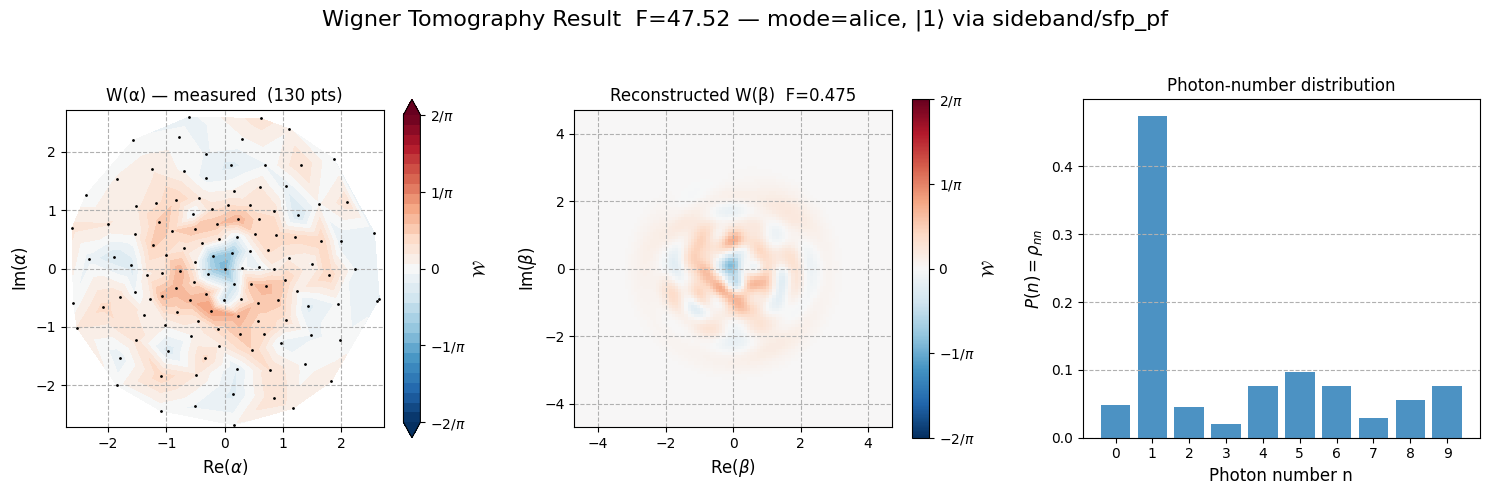
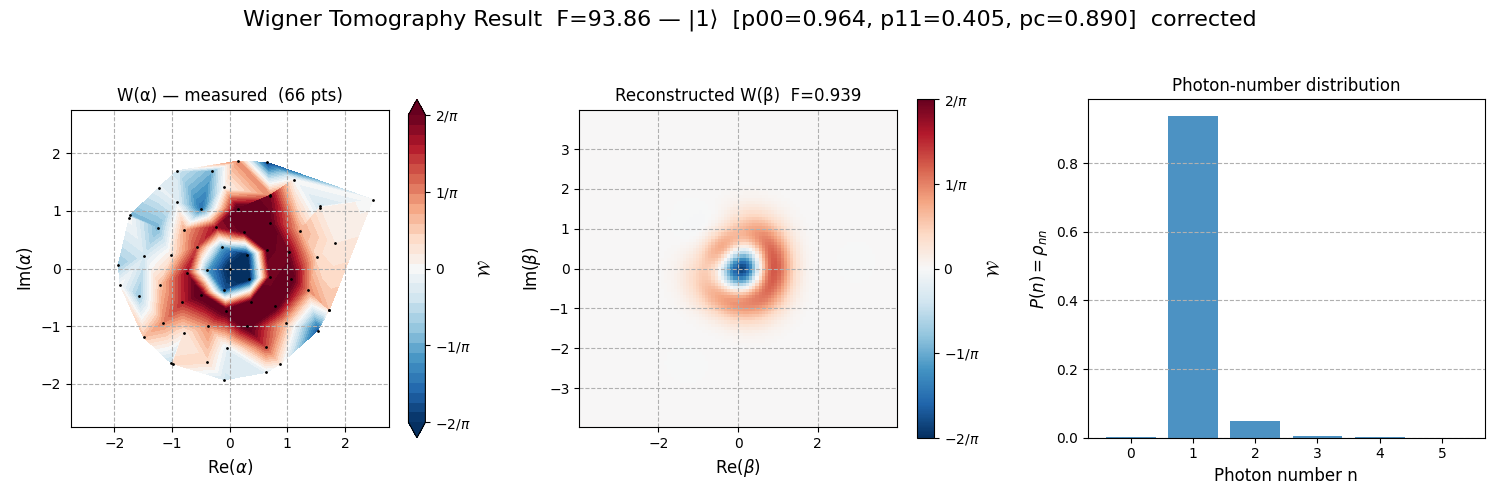
Docs: correct README attribution and update wigner figure
1Q_calibrations/README.md: fix nodes credited to NQI-SQMS — remove
nodes that came from other branches (02g-02j, 03d-03e, 04c, 05c,
06c, 09c, 10a, 10c, 22b, 08f, flux distortion nodes 17b-18d, filter
plot 99, adaptive graph suite 994-999). Clarify that the adaptive
concept was introduced through modifications to existing nodes
(error codes, temp_calibration blacklisting) rather than as
standalone orchestration graphs.

cavity_calibrations/README.md: replace wigner figure with
parity-corrected result (F=93.86%, p11=0.405, pc=0.890); remove
noisy Fock |1> T2 Ramsey figure.

.img/: replace wigner_tomography.png (F=47.52 → F=93.86 corrected),
remove cavity_fock1_T2.png.

diff --git a/qualibration_graphs/superconducting/calibrations/1Q_calibrations/README.md b/qualibration_graphs/superconducting/calibrations/1Q_calibrations/README.md
@@ -1,12 +1,11 @@
 # 1Q Calibrations
 
-This folder contains the standard single-qubit calibration library for superconducting transmon qubits on the QUA platform, originally developed by Quantum Machines (QM) and extended by NQI-SQMS at Northwestern/Fermilab to support:
+This folder contains the standard single-qubit calibration library for superconducting transmon qubits on the QUA platform, originally developed by Quantum Machines (QM). NQI-SQMS extended and corrected these nodes to support:
 
-- SRF transmon-cavity systems (dispersive regime, Wigner tomography)
-- Adaptive calibration graphs with error-code-driven recovery
-- Extended readout optimization (depletion, length, 2D frequency-amplitude)
-- EF (second excited state) calibration nodes
-- Flux-vs-time coherence characterization
+- SRF transmon-cavity systems (dispersive coupling, parity measurement, Wigner tomography)
+- Adaptive calibration with error-code-driven recovery and per-qubit blacklisting
+- Extended readout optimization (depletion time, readout length, 2D frequency-amplitude, GEF)
+- EF (second excited state) calibration
 - Long-run monitoring (T₁ monitor, thermal monitor)
 
 See [`cavity_calibrations/`](../cavity_calibrations/README.md) for the cavity-specific nodes.
@@ -18,42 +17,22 @@ See [`cavity_calibrations/`](../cavity_calibrations/README.md) for the cavity-sp
 ### Resonator characterization
 | Node | File | Purpose |
 |------|------|---------|
-| 02d | `02d_broad_resonator_spectroscopy.py` | Wide-span sweep to locate resonator from scratch; used in adaptive discovery |
-| 02e | `02e_resonator_punch_out.py` | Power-dependent punch-out measurement to identify qubit hybridization |
-| 02f | `02f_resonator_bringup_graph.py` | Orchestrated bringup graph: spectroscopy → punch-out → optimization |
-| 02g | `02g_resonator_spectroscopy_wide_pyloop.py` | Pure-Python loop version for very wide frequency sweeps |
-| 02h | `02h_resonator_spectroscopy_single.py` | Single-shot resonator spectroscopy (no averaging loop) |
-| 02i | `02i_resonator_spectroscopy_vs_power_iq.py` | IQ-resolved power sweep for resonator characterization |
-| 02j | `02j_resonator_spectroscopy_vs_coupler_flux_new.py` | Resonator spectroscopy vs. coupler flux bias |
+| 02d | `02d_broad_resonator_spectroscopy.py` | Wide-span sweep to locate a resonator from scratch; used in adaptive discovery |
+| 02e | `02e_resonator_punch_out.py` | Power-dependent punch-out to identify qubit hybridization |
+| 02f | `02f_resonator_bringup_graph.py` | Orchestrated graph: spectroscopy → punch-out → frequency optimization |
 
 ### Qubit spectroscopy
 | Node | File | Purpose |
 |------|------|---------|
-| 03c | `03c_qubit_spectroscopy_vs_power.py` | Adaptive power sweep; feeds error codes to adaptive graph |
-| 03d | `03d_qubit_spectroscopy_vs_amplitude.py` | Amplitude-swept spectroscopy (alternative to power in dBm) |
-| 03e | `03e_qubit_spectroscopy_vs_flux_b.py` | Qubit spectroscopy vs. auxiliary (B-coil) flux |
-| 04 | `04_twpa_calibration.py` | TWPA pump frequency and power optimization |
+| 03c | `03c_qubit_spectroscopy_vs_power.py` | Adaptive power sweep; feeds error codes to the adaptive calibration flow |
 
-### Pulse calibration
+### Pulse calibration & EF
 | Node | File | Purpose |
 |------|------|---------|
-| 04c | `04c_time_rabi.py` | Time-domain Rabi for GE gate duration calibration |
 | 04d | `04d_time_rabi_ef.py` | Time-domain Rabi for EF gate duration calibration |
 | 05 | `05_x180_fine_calibration_graph.py` | Fine x180 calibration graph (power Rabi error amplification) |
-| 10a | `10a_stark_detuning.py` | AC Stark shift measurement for detuning calibration |
-| 10c | `10c_allxy.py` | AllXY gate quality diagnostic (streamlined version) |
-| 22b | `22b_all_xy.py` | AllXY gate quality diagnostic (alternative implementation) |
-
-### Coherence characterization
-| Node | File | Purpose |
-|------|------|---------|
-| 05b | `05b_T1_ef.py` | T₁ of the |f⟩ state |
-| 05c | `05c_T1_vs_flux.py` | T₁ as a function of flux bias |
-| 06b | `06b_ramsey_ef.py` | Ramsey for |f⟩ state frequency and T₂* |
-| 06c | `06c_echo_vs_flux.py` | T₂ echo as a function of flux bias |
-| 09c | `09c_T2star_vs_flux.py` | T₂* (Ramsey) as a function of flux bias |
-| 29 | `29_T1_monitor.py` | Long-run T₁ monitoring (repeated measurements) |
-| 32 | `32_T1_thermal_monitor.py` | T₁ monitoring normalized to thermal state as reference |
+| 05b | `05b_T1_ef.py` | T₁ of the \|f⟩ state |
+| 06b | `06b_ramsey_ef.py` | Ramsey for \|f⟩ state frequency and T₂\* |
 
 ### Readout optimization
 | Node | File | Purpose |
@@ -63,67 +42,49 @@ See [`cavity_calibrations/`](../cavity_calibrations/README.md) for the cavity-sp
 | 08c | `08c_readout_depletion.py` | Optimize resonator depletion time |
 | 08d | `08d_readout_length_optimization.py` | Optimize readout pulse length for SNR |
 | 08e | `08e_readout_frequency_amplitude_optimization.py` | 2D frequency × amplitude readout optimization |
-| 08f | `08f_fullscale_dbm_adjustment.py` | Adjust DAC full-scale to target output power in dBm |
 | 14b | `14b_readout_gef_power_optimization.py` | GEF readout power optimization |
 | 14c | `14c_readout_gef_length_optimization.py` | GEF readout length optimization |
 | 14d | `14d_readout_gef_freq_amp_optimization.py` | GEF 2D frequency × amplitude optimization |
 
-### Flux distortion calibration
+### Long-run monitoring
 | Node | File | Purpose |
 |------|------|---------|
-| 17b | `17b_coupler_flux_long_distortion_qubitspec.py` | Long-timescale flux distortion on coupler (qubit spec method) |
-| 17c | `17c_coupler_flux_long_distortion_ramsey.py` | Long-timescale flux distortion on coupler (Ramsey method) |
-| 17d | `17d_qubit_flux_long_distortion_ramsey.py` | Long-timescale flux distortion on qubit (Ramsey method) |
-| 17e | `17e_qubit_flux_long_distortion_qubitspec.py` | Long-timescale flux distortion on qubit (qubit spec method) |
-| 18b | `18b_coupler_flux_short_distortion.py` | Short-timescale flux distortion on coupler (cryoscope) |
-| 18c | `18c_qubit_flux_short_distortion.py` | Short-timescale flux distortion on qubit (cryoscope) |
-| 18d | `18d_coupler_zero_point_coarse.py` | Coarse coupler flux zero-point calibration |
-
-### Miscellaneous
-| Node | File | Purpose |
-|------|------|---------|
-| 20 | `20_qubit_rpm.py` | Qubit RPM (resonance population measurement) |
-| 20b | `20b_ef_rabi_rpm.py` | EF Rabi RPM |
-| 99 | `99_filter_plot.py` | Utility: visualize flux distortion filter impulse response |
+| 29 | `29_T1_monitor.py` | Long-run T₁ monitoring (repeated measurements over time) |
+| 32 | `32_T1_thermal_monitor.py` | T₁ monitoring normalized to thermal state as reference |
 
 ### Calibration graphs (orchestration)
 | Node | File | Purpose |
 |------|------|---------|
-| 91 | `91_ge_readout_optimization_graph.py` | Readout optimization graph (GE) |
-| 91b | `91b_gef_readout_optimization_graph.py` | Readout optimization graph (GEF) |
+| 91 | `91_ge_readout_optimization_graph.py` | Readout optimization chain (GE) |
+| 91b | `91b_gef_readout_optimization_graph.py` | Readout optimization chain (GEF) |
 | 92 | `92_ge_bringup_graph.py` | GE bring-up from scratch |
-| 92a | `92a_ge_discovery_graph.py` | Adaptive GE discovery (spectroscopy + Rabi loop) |
-| 93 | `93_ef_bringup_graph.py` | EF bring-up graph (from GE calibrated state) |
+| 92a | `92a_ge_discovery_graph.py` | Adaptive GE discovery (spectroscopy + power sweep + Rabi loop) |
+| 93 | `93_ef_bringup_graph.py` | EF bring-up from a calibrated GE state |
 | 93a | `93a_ef_discovery_graph.py` | Adaptive EF discovery graph |
 | 96 | `96_ge_retuning_graph.py` | GE retuning from a known state |
 | 97 | `97_ef_retuning_graph.py` | EF retuning graph |
-| 994 | `994_rb_success_exit.py` | Exit node for RB-based adaptive loop (success condition) |
-| 995 | `995_readout_chain_graph.py` | Readout calibration chain (depletion → length → freq → amp) |
-| 996 | `996_single_qubit_gate_graph.py` | Single-qubit gate calibration chain |
-| 997 | `997_single_qubit_rb_graph.py` | RB-gated gate calibration (runs RB to verify) |
-| 999 | `999_adaptive_graph.py` | Full adaptive calibration graph with RB-driven retuning loop |
 
 ---
 
 ## Changes to QM nodes (changelog)
 
-The following nodes from the original QM library were modified. Changes are grouped by theme.
+The following QM nodes were modified. Changes are grouped by theme.
 
 ### Timing fix: `depletion_time * u.ns` → `depletion_time // 4`
 
-**Affected:** `01a_time_of_flight.py`, `07_iq_blobs.py`, `02a_resonator_spectroscopy.py`, and all other nodes that wait for resonator depletion.
+**Affected:** `01a_time_of_flight.py`, `07_iq_blobs.py`, `02a_resonator_spectroscopy.py`, and all nodes that wait for resonator depletion.
 
-**What changed:** The wait call was `rr.wait(depletion_time * u.ns)`. Since `u.ns = 1` in `qualang_tools.units`, this multiplied nanoseconds by 1 and passed nanoseconds to a function that expects QUA clock cycles (1 cycle = 4 ns). The fix uses integer division by 4 to convert correctly.
+**What changed:** Wait calls used `rr.wait(depletion_time * u.ns)`. Since `u.ns = 1` in `qualang_tools.units`, this passed nanoseconds directly to a function that expects QUA clock cycles (1 cycle = 4 ns). The fix uses `depletion_time // 4`.
 
-**Why:** The original code produced waits that were 4× too short, causing readout contamination when depletion time was large relative to the repetition rate.
+**Why:** The original code produced waits that were 4× too short, causing readout contamination in high-depletion-time setups (e.g., SRF cavities).
 
-### Adaptive calibration support
+### Adaptive calibration support (error codes + blacklisting)
 
-**Affected:** `02a_resonator_spectroscopy.py`, `04b_power_rabi.py`, `03a_qubit_spectroscopy.py`, `03b_qubit_spectroscopy_vs_flux.py`.
+**Affected:** `02a_resonator_spectroscopy.py`, `03a_qubit_spectroscopy.py`, `03b_qubit_spectroscopy_vs_flux.py`, `04b_power_rabi.py`.
 
-**What changed:** Added `ErrorCode` / `CorrectiveAction` enum tracking to each node's `update_state` action. On failure, failed frequencies or amplitudes are added to `machine.temp_calibration[qubit_name].blacklisted_*` so that upstream discovery nodes (02d broad spectroscopy, 03c vs. power) avoid retrying the same bad points.
+**What changed:** Added `ErrorCode` / `CorrectiveAction` enum tracking to each node's `update_state` action. On specific failure modes (e.g., `NO_DIP_FOUND`, `NO_OSCILLATION`), failed frequencies or amplitudes are added to `machine.temp_calibration[qubit_name].blacklisted_*` so that upstream discovery nodes avoid retrying the same bad points.
 
-**Why:** Enables the adaptive calibration graph (`999_adaptive_graph.py`) to automatically re-route failed qubits through the discovery flow without human intervention.
+**Why:** Enables the adaptive calibration graphs (`92a_ge_discovery_graph.py`, `93a_ef_discovery_graph.py`) to automatically re-route failed qubits through the discovery flow without human intervention. This introduced the concept of adaptive node chaining using `TemporaryCalibrationData`.
 
 ### Multiplexed readout separation
 
@@ -131,105 +92,82 @@ The following nodes from the original QM library were modified. Changes are grou
 
 **What changed:** Separated the reset+drive loop from the readout loop into distinct `for i, qubit in ...` blocks with an `align()` between them.
 
-**Why:** The original code drove and read each qubit sequentially, which breaks multiplexed operation on multi-qubit setups. The fix allows simultaneous readout of all qubits after the drive phase.
+**Why:** The original code drove and read each qubit sequentially. The fix enables proper simultaneous readout of all qubits.
 
 ### Readout power override via `tracked_updates`
 
 **Affected:** `02a_resonator_spectroscopy.py`, `08a_readout_frequency_optimization.py`, `08b_readout_power_optimization.py`.
 
-**What changed:** Added optional `readout_power_dbm` parameter. When set, the node temporarily adjusts `resonator.set_locked_output_power()` for the duration of the experiment and reverts it in `update_state` via `tracked_resonator.revert_changes()`.
+**What changed:** Added optional `readout_power_dbm` parameter. When set, the node temporarily adjusts `resonator.set_locked_output_power()` for the duration of the experiment, and reverts it in `update_state` via `tracked_resonator.revert_changes()`.
 
-**Why:** SRF/3D cavity systems require low readout power during qubit spectroscopy to avoid drive-induced dephasing. The override allows using a low-power readout for sensitive steps without permanently changing the QUAM state.
+**Why:** SRF/3D cavity systems require low readout power during sensitive calibration steps to avoid drive-induced dephasing, without permanently altering the QUAM state.
 
 ### GE pi-pulse parameter
 
 **Affected:** `07_iq_blobs.py`.
 
-**What changed:** The excited-state preparation now uses `qubit.xy.play(node.parameters.ge_pi_pulse)` instead of hardcoded `"x180"`, where `ge_pi_pulse` defaults to `"x180"`.
+**What changed:** Excited-state preparation now uses `qubit.xy.play(node.parameters.ge_pi_pulse)` instead of hardcoded `"x180"`.
 
-**Why:** Some experiments need to use a selective x180 pulse or a different operation name (e.g., for SRF with ac Stark shift).
+**Why:** Allows using a selective or differently-named π-pulse (e.g., with AC Stark shift compensation).
 
 ### GEF readout improvements
 
 **Affected:** `14_gef_readout_frequency_optimization.py`, `15_iq_blobs_gef.py`.
 
-**What changed:** Added GEF classifier support (LDA-based 3-state discrimination), crash fixes for missing GEF classifier fields, and additional optimization axes (power, length, 2D freq-amp).
+**What changed:** Added GEF classifier support (LDA-based 3-state discrimination) and fixed crash for missing GEF classifier fields. Added missing optimization axes (power, length, 2D freq-amp) as new nodes (14b–14d).
 
-**Why:** GEF readout is essential for EF-gate calibration and parity measurement. The original code only had frequency optimization for GEF.
+**Why:** GEF readout is essential for EF-gate calibration and parity measurement in cavity QED systems.
 
 ### Bringup/retuning graph updates
 
 **Affected:** `80_calibration_graph_bringup_flux_tunable_transmon.py`, `81_calibration_graph_retuning_flux_tunable_transmon.py`, `90_calibration_graph_bringup_fixed_frequency_transmon.py`, `91_calibration_graph_retuning_fixed_frequency_transmon.py`.
 
-**What changed:** Updated to reference the new user-added readout optimization nodes (08c, 08d, 08e, 08f) and to use the recursive calibration scanner (`recursive_calibration_scan.py`) that finds nodes across all subfolders.
+**What changed:** Updated to reference new readout optimization nodes (08c, 08d, 08e) and extended with EF calibration steps.
 
-**Why:** The original graphs assumed a flat 1Q_calibrations folder and didn't include the extended readout chain.
+### Additional modifications
 
-### calibration_utils changes
+**Affected:** `06a_ramsey.py`, `06b_echo.py`, `09a_ramsey_vs_flux_calibration.py`, `10b_drag_calibration_180_minus_180.py`, `11a_single_qubit_randomized_benchmarking.py`, `11b_single_qubit_randomized_benchmarking_interleaved.py`, `12_Qubit_Spectroscopy_E_to_F.py`, `13_power_rabi_ef.py`, `16a_xyz_delay.py`, `16b_xy_coupler_z_delay.py`, `17_pi_vs_flux_long_distortions.py`, `18_cryoscope.py`, `19_zz_off_jazz.py`.
 
-| Module | Change |
-|--------|--------|
-| `resonator_spectroscopy/` | Added circle-fit analysis, error codes, `readout_power_dbm` parameter |
-| `power_rabi/` | Added `PowerRabiErrorCode`, `NO_OSCILLATION` path for blacklisting, `operation_length_in_ns` override |
-| `qubit_spectroscopy/` | Added error codes, adaptive power sweep support |
-| `iq_blobs/` | Added `ge_pi_pulse` parameter, multiplexed readout fix, histogram improvements |
-| `iq_blobs_ef/` | GEF LDA classifier, crash fix for missing fields |
-| `ramsey/` | Improved decay fit robustness, added plotting modes |
-| `ramsey_versus_flux_calibration/` | Extended to support flux-vs-qubit-frequency 2D fitting |
-| `drag_calibration_180_minus180/` | Added convergence diagnostics |
-| `single_qubit_randomized_benchmarking/` | Added 1Q-Clifford diagnostic mode, raw-IQ plot |
-| `T1/analysis.py` | Improved exponential fit initial guess |
-| `T2echo/analysis.py` | Added echo decay robustness |
-| `cryoscope/` | Extended for coupler flux |
-| `chevron_cz/`, `cz_conditional_phase/` | CZ calibration improvements (see CZ_calibrations/README.md) |
+**What changed:** Various bug fixes, parameter additions, analysis improvements, and hardware compatibility fixes across these nodes. See git diff vs. upstream/main for per-file details.
 
 ---
 
-## New calibration_utils modules (supporting added nodes)
+## calibration_utils — modified modules
 
-| Module | Purpose |
-|--------|---------|
-| `bringup_graphs.py` | Shared utilities for all bringup/retuning graphs (`_ensure_temp_calibration`, `should_keep_retuning`) |
-| `broad_resonator_spectroscopy/` | Wide-span spectroscopy analysis + blacklist filtering |
-| `T1_ef/`, `T1_vs_flux/`, `T1_monitor/`, `T1_thermal_monitor/` | T₁ variants |
-| `T2echo_vs_flux/`, `T2star_vs_flux/` | T₂ vs. flux bias |
-| `all_xy/`, `allxy/` | AllXY gate diagnostic |
-| `stark_detuning_calibration/` | AC Stark shift fitting |
-| `readout_frequency_amplitude_optimization/` | 2D readout optimization |
-| `readout_depletion/`, `readout_length_optimization/` | Readout depletion and length optimization |
-| `readout_gef_*/` | GEF readout optimization variants |
-| `dispersive_shift/`, `dispersive_shift_gef/` | χ measurement analysis |
-| `qubit_gef_thresholds/` | GEF LDA threshold calibration |
-| `ef_rabi_rpm/`, `qubit_rpm/` | RPM measurement modules |
+| Module | Change |
+|--------|--------|
+| `resonator_spectroscopy/` | Added circle-fit analysis, error codes (`ResonatorSpectroscopyErrorCode`), `readout_power_dbm` parameter |
+| `broad_resonator_spectroscopy/` | New — wide-span analysis with blacklist filtering for adaptive discovery |
+| `power_rabi/` | Added `PowerRabiErrorCode`, `NO_OSCILLATION` blacklisting, `operation_length_in_ns` override |
+| `qubit_spectroscopy/` | Added error codes, adaptive power sweep support |
+| `iq_blobs/` | Added `ge_pi_pulse` parameter, multiplexed readout fix, histogram improvements |
+| `iq_blobs_ef/` | GEF LDA classifier, crash fix for missing fields |
+| `ramsey/` | Improved decay fit robustness, additional plotting modes |
+| `ramsey_versus_flux_calibration/` | Extended for 2D flux-vs-frequency fitting |
+| `drag_calibration_180_minus180/` | Added convergence diagnostics |
+| `single_qubit_randomized_benchmarking/` | Added 1Q-Clifford diagnostic mode, raw-IQ plot support |
+| `T1/analysis.py` | Improved exponential fit initial guess |
+| `T2echo/analysis.py` | Improved echo decay robustness |
+| `T1_ef/` | New — T₁ analysis for the \|f⟩ state |
+| `T1_monitor/` | New — repeated T₁ measurement analysis |
+| `T1_thermal_monitor/` | New — T₁ normalized to thermal reference |
+| `dispersive_shift/` | New — χ extraction from qubit spectroscopy |
+| `dispersive_shift_gef/` | New — χ extraction for GEF levels |
+| `readout_depletion/` | New — depletion time optimization |
+| `readout_length_optimization/` | New — readout length optimization |
+| `readout_frequency_amplitude_optimization/` | New — 2D readout optimization |
+| `readout_gef_*/` | New — GEF readout optimization variants (power, length, freq-amp) |
+| `bringup_graphs.py` | New — shared utilities for bringup/retuning graphs (`_ensure_temp_calibration`, `should_keep_retuning`) |
 
 All cavity-specific modules (`cavity_*`, `fNgN1_*`, `displacement_*`, `wigner_*`, `parity_*`) are documented in [`cavity_calibrations/README.md`](../cavity_calibrations/README.md).
 
 ---
 
-## Adaptive calibration graph (999)
-
-`999_adaptive_graph.py` implements a fully automated calibration loop:
-
-1. Run initial RB → identify qubits below `fidelity_threshold`
-2. Failed qubits enter a retune subgraph:
-   - Re-find idle flux point + qubit frequency (`09a_ramsey_vs_flux_calibration`)
-   - Refine qubit frequency (`06a_ramsey`)
-   - Refine x180 amplitude (`04b_power_rabi` error amplification)
-   - Refine x90 amplitude
-   - Verify via RB (`997_single_qubit_rb_graph`)
-3. Loop continues until all qubits pass or `max_retune_iterations` is reached
-
-State is tracked in `machine.temp_calibration` (`TemporaryCalibrationData`). A tutorial notebook is provided at `998_adaptive_graph_tutorial.ipynb`.
-
----
-
 ## QUAM infrastructure additions
-
-The following files in `quam_config/` support multi-subfolder calibration scanning and hardware patches:
 
 | File | Purpose |
 |------|---------|
-| `recursive_calibration_scan.py` | Monkeypatches `QualibrationLibrary` to scan `1Q_calibrations/`, `CZ_calibrations/`, and `cavity_calibrations/` in one call |
-| `data_fetch_retry_patch.py` | Retry logic for QM data fetching on transient failures |
-| `hardware_batching_patch.py` | Hardware slot batching for OPX1000 with many elements |
-| `wiring_examples/` | Wiring configs for OPX+/Octave+cavity and OPX1000/MW-FEM+cavity |
+| `quam_config/recursive_calibration_scan.py` | Monkeypatches `QualibrationLibrary` to scan `1Q_calibrations/`, `CZ_calibrations/`, and `cavity_calibrations/` in a single call |
+| `quam_config/data_fetch_retry_patch.py` | Retry logic for QM data fetching on transient failures |
+| `quam_config/hardware_batching_patch.py` | Hardware slot batching for OPX1000 with many elements |
+| `quam_config/wiring_examples/` | Wiring configs for OPX+/Octave+cavity and OPX1000/MW-FEM+cavity |

diff --git a/qualibration_graphs/superconducting/calibrations/cavity_calibrations/README.md b/qualibration_graphs/superconducting/calibrations/cavity_calibrations/README.md
@@ -127,20 +127,15 @@ Exponential decay of the |1⟩ Fock state, giving T₁ ≈ 5.0 ms.
 
 <img src="../.img/cavity_fock1_T1.png" width="700" alt="Fock state |1> T1 decay">
 
-### Fock |1⟩ T₂ (node 12)
-T₂ of the |1⟩ Fock state measured via Ramsey-style experiment.
-
-<img src="../.img/cavity_fock1_T2.png" width="700" alt="Fock state |1> T2 Ramsey">
-
 ### Parity-time calibration (node 09)
 Calibrates χ_eff and t_parity from the qubit Ramsey frequency while the cavity holds a |1⟩ Fock state.
 
 <img src="../.img/parity_time_measurement.png" width="700" alt="Parity-time Ramsey showing oscillation at chi_eff with fit">
 
 ### Wigner tomography 2D (node 14)
-Full 2D Wigner function reconstruction of a |1⟩ Fock state: measured raw W(α), reconstructed W(β) via MLE, and photon-number distribution.
+Full 2D Wigner function reconstruction of a |1⟩ Fock state: measured raw W(α), reconstructed W(β) via MLE, photon-number distribution, and parity-corrected fidelity (F=93.86%, p₁₁=0.405, contrast pc=0.890).
 
-<img src="../.img/wigner_tomography.png" width="900" alt="2D Wigner tomography of Fock |1> state: raw, reconstructed, and photon statistics">
+<img src="../.img/wigner_tomography.png" width="900" alt="2D Wigner tomography of Fock |1> state: raw, reconstructed, photon statistics, parity corrected F=93.86%">
 
 ---
 
